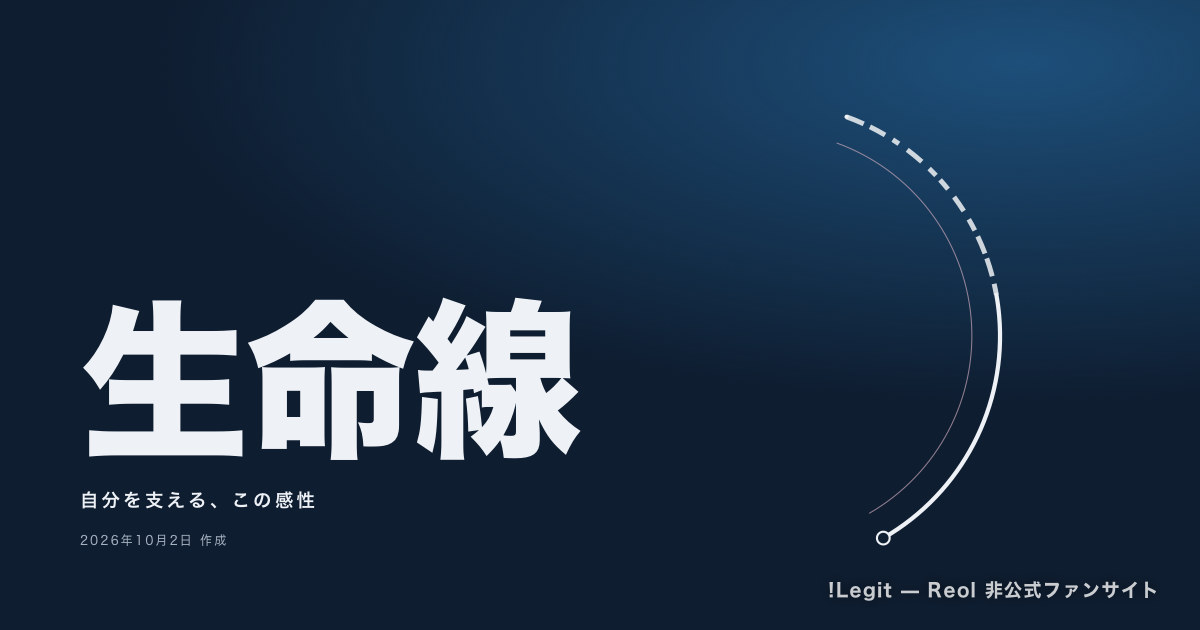
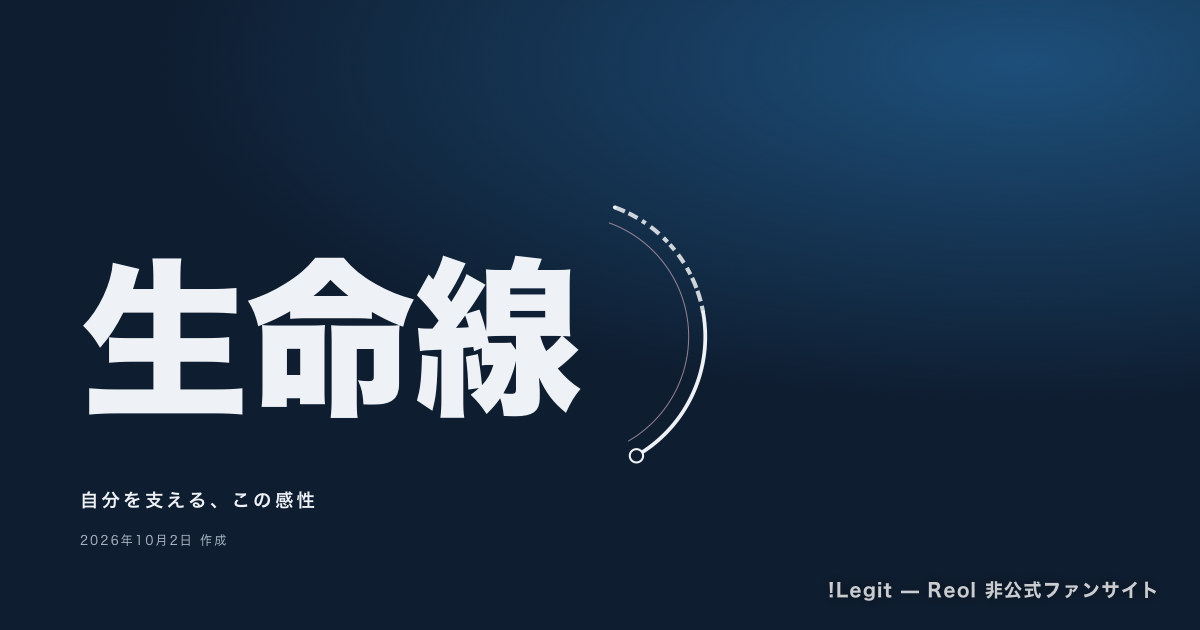
fix: 生命線の表紙の円弧を題名のすぐ右に置く
Claude-Session: https://claude.ai/code/session_019aiWLexjpzsr9jmmoxMXpr

diff --git a/src/components/songArticles/designs/reol-song-014/SeimeisenDesign.tsx b/src/components/songArticles/designs/reol-song-014/SeimeisenDesign.tsx
@@ -92,9 +92,9 @@ const COVER_BITS = (() => {
   return bits;
 })();
 
-/** 表紙: 手相の生命線。前半は断片が刻むように並び、後半は一本の線になって手首へ伸びる */
+/** 表紙: 題名の右に置く生命線の円弧。前半は断片が刻むように並び、後半は一本の線になる */
 const CoverArt: React.FC = () => (
-  <svg className="a014-cover__art" viewBox="0 0 600 820" aria-hidden="true">
+  <svg className="a014-cover__art" viewBox="180 100 270 640" aria-hidden="true">
     <g className="a014-cover__bits">
       {COVER_BITS.map((b, i) => (
         <path key={i} d={LIFE_LINE} pathLength={1} strokeDasharray={`0 ${b.from} ${b.len} 2`} style={{ animationDelay: `${0.2 + i * 0.05}s` }} />
@@ -102,7 +102,7 @@ const CoverArt: React.FC = () => (
     </g>
     <path className="a014-cover__echo" d={ECHO_LINE} />
     <path className="a014-cover__open" d={LIFE_LINE} pathLength={1} strokeDasharray={`0 ${SPLIT} ${1 - SPLIT} 2`} />
-    <circle cx="265" cy="716" r="9" className="a014-cover__node" />
+    <circle cx="265" cy="716" r="16" className="a014-cover__node" />
   </svg>
 );
 
@@ -165,7 +165,7 @@ const Palm: React.FC = () => {
   }, []);
   return (
     <figure ref={ref} className={`a014-palm${className}`} aria-label="傷も、大切に思う気持ちも、同じ一本の線の上にある">
-      <svg viewBox="0 0 600 820" aria-hidden="true">
+      <svg viewBox="150 90 330 660" aria-hidden="true">
         <path d={PALM} className="a014-palm__glow" />
         <path ref={pathRef} d={PALM} className="a014-palm__line" pathLength={1} />
         {nicks.map((n, i) => (
@@ -193,7 +193,6 @@ const SeimeisenDesign: SongArticleDesign = (ctx) => {
     <main className="a014" lang="ja">
       <article>
         <header className="a014-cover" data-og-cover>
-          <CoverArt />
           <div className="a014-cover__top">
             <nav aria-label="パンくず" className="a014-crumbs">
               <Link to="/">HOME</Link>
@@ -205,7 +204,11 @@ const SeimeisenDesign: SongArticleDesign = (ctx) => {
           </div>
           <div className="a014-cover__body">
             <h1 className="a014-title">
-              <span className="a014-title__song">{tMain}</span>
+              {/* 生命線の円弧は題名のすぐ右に置く(ユーザー、2026-10-23) */}
+              <span className="a014-title__row">
+                <span className="a014-title__song">{tMain}</span>
+                <CoverArt />
+              </span>
               {tSub && <span className="a014-title__sub">{tSub}</span>}
             </h1>
             <p className="a014-date">

diff --git a/src/components/songArticles/designs/reol-song-014/seimeisen.css b/src/components/songArticles/designs/reol-song-014/seimeisen.css
@@ -40,37 +40,42 @@
   flex-direction: column;
   background: radial-gradient(120% 90% at 85% 10%, var(--blue) 0%, transparent 60%), var(--ground);
 }
+.a014-title__row {
+  display: flex;
+  align-items: center;
+  gap: 0.12em;
+  font-size: clamp(76px, 17vw, 184px);
+}
+/* 題名の右の円弧。題名の文字の大きさに合わせる(線の太さは viewBox の単位。狭い画面では太くする) */
 .a014-cover__art {
-  position: absolute;
-  z-index: -1;
-  top: 5%;
-  right: max(2%, calc((100% - 1040px) / 2));
-  height: 92%;
+  flex: none;
+  height: 1.45em;
   width: auto;
-  aspect-ratio: 600 / 820;
+  aspect-ratio: 270 / 640;
+  overflow: visible;
 }
 .a014-cover__bits path {
   fill: none;
   stroke: var(--ink);
-  stroke-width: 7;
+  stroke-width: 10;
   opacity: 0.85;
 }
 .a014-cover__open {
   fill: none;
   stroke: var(--ink);
-  stroke-width: 6;
+  stroke-width: 9;
   stroke-linecap: round;
 }
 .a014-cover__echo {
   fill: none;
   stroke: var(--mauve);
-  stroke-width: 1.5;
+  stroke-width: 2.5;
   opacity: 0.7;
 }
 .a014-cover__node {
   fill: var(--ground);
   stroke: var(--ink);
-  stroke-width: 3;
+  stroke-width: 5;
 }
 @media (prefers-reduced-motion: no-preference) {
   /* 断片が刻むように次々と現れ、そのあと一本の線が伸びて開ける */
@@ -157,7 +162,7 @@
 }
 .a014-title__song {
   display: block;
-  font-size: clamp(76px, 17vw, 184px);
+  font-size: 1em;
   font-weight: 900;
   line-height: 1;
   letter-spacing: -0.02em;
@@ -486,12 +491,19 @@
   .a014-chop__labels {
     font-size: 11px;
   }
-  /* 狭い画面では表紙の線を大きく、左右は画面の外へはみ出させる */
-  .a014-cover__art {
-    top: 7%;
-    right: -12%;
-    height: 70%;
+  .a014-cover__bits path {
+    stroke-width: 20;
   }
+  .a014-cover__open {
+    stroke-width: 18;
+  }
+  .a014-cover__echo {
+    stroke-width: 5;
+  }
+  .a014-cover__node {
+    stroke-width: 10;
+  }
+  /* 狭い画面では表紙の線を大きく、左右は画面の外へはみ出させる */
 }
 @media print {
   .a014,

diff --git a/plan/50-seimeisen-article-design.md b/plan/50-seimeisen-article-design.md
@@ -70,3 +70,4 @@
 - OGP 撮り直し。横長でも線が題名に重ならないので、`capture-article-og.ts` の記事ごとの調整は外した。
 - 続けてユーザー「左から右のほうが良くない？」。生命線を左右反転し、右の手のひらを見た向き(左上の親指と人差し指の間から、斜め右下へ弧を描いて手首へ)にした。断片から一本の線へ、左から右へ読める。OGP 撮り直し。
 - 続けてユーザー「リアルな生命線を彷彿とさせすぎて生々しいのでもう少し抽象化したい」。手相そのままの曲線をやめ、曲率の一定な円弧(中心 (100, 430)・半径 330、-70°〜60°)にした。にじみ(ぼかし)を外し、表紙は内側に細い藤色の円弧を添え、線の終わりに小さな輪。傷の図も同じ円弧で、藤色はぼかさない細い帯に。向き(左上から右下へ、左から右へ読める)はそのまま。OGP 撮り直し。
+- 続けてユーザー「生命線のタイトルの右側に置いた方が自然じゃない？」。表紙の円弧を、背景の右端から題名「生命線」のすぐ右へ移した(題名と同じ行に並べ、高さは題名の文字の 1.45 倍)。線の太さは viewBox の単位で、狭い画面では太くする(`vector-effect: non-scaling-stroke` は点線の長さの計算まで画面の単位にしてしまい、後半の実線が消えたので使わない)。傷の図の viewBox も円弧に合わせて詰めた。OGP 撮り直し。
